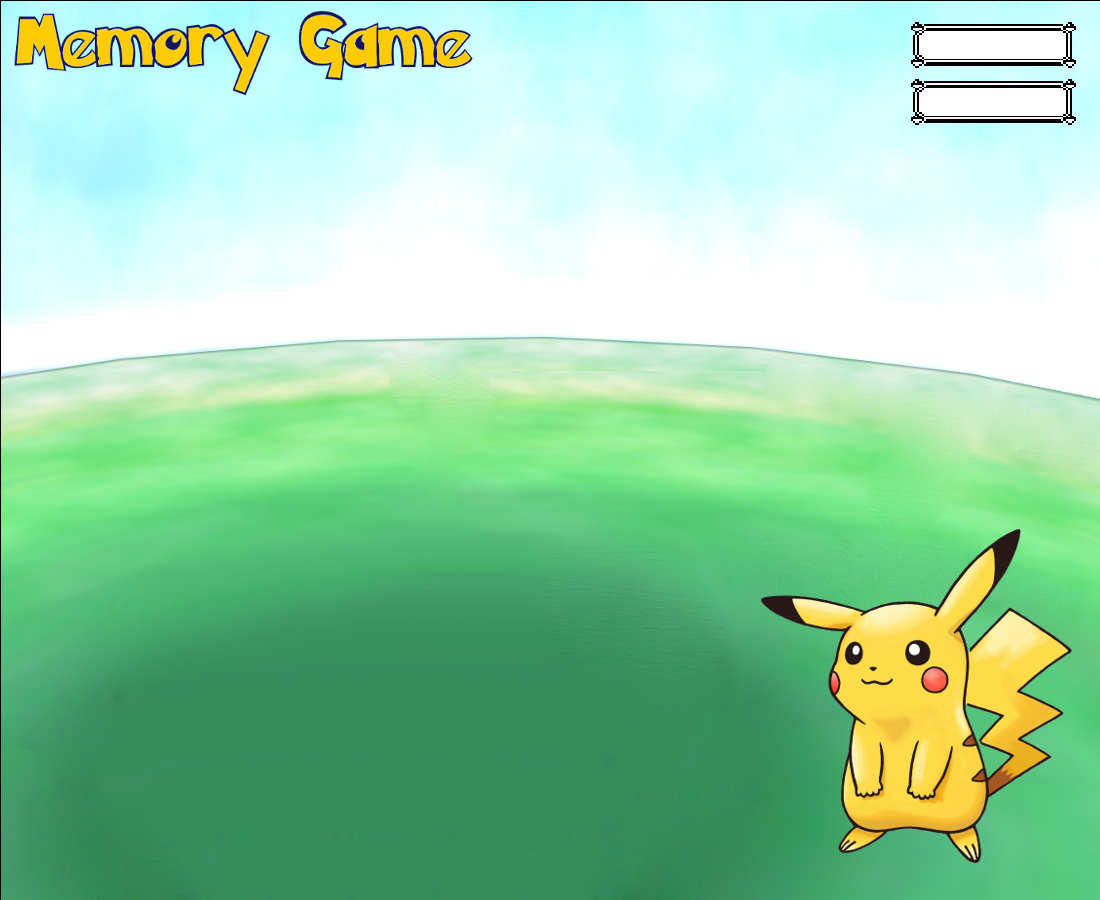
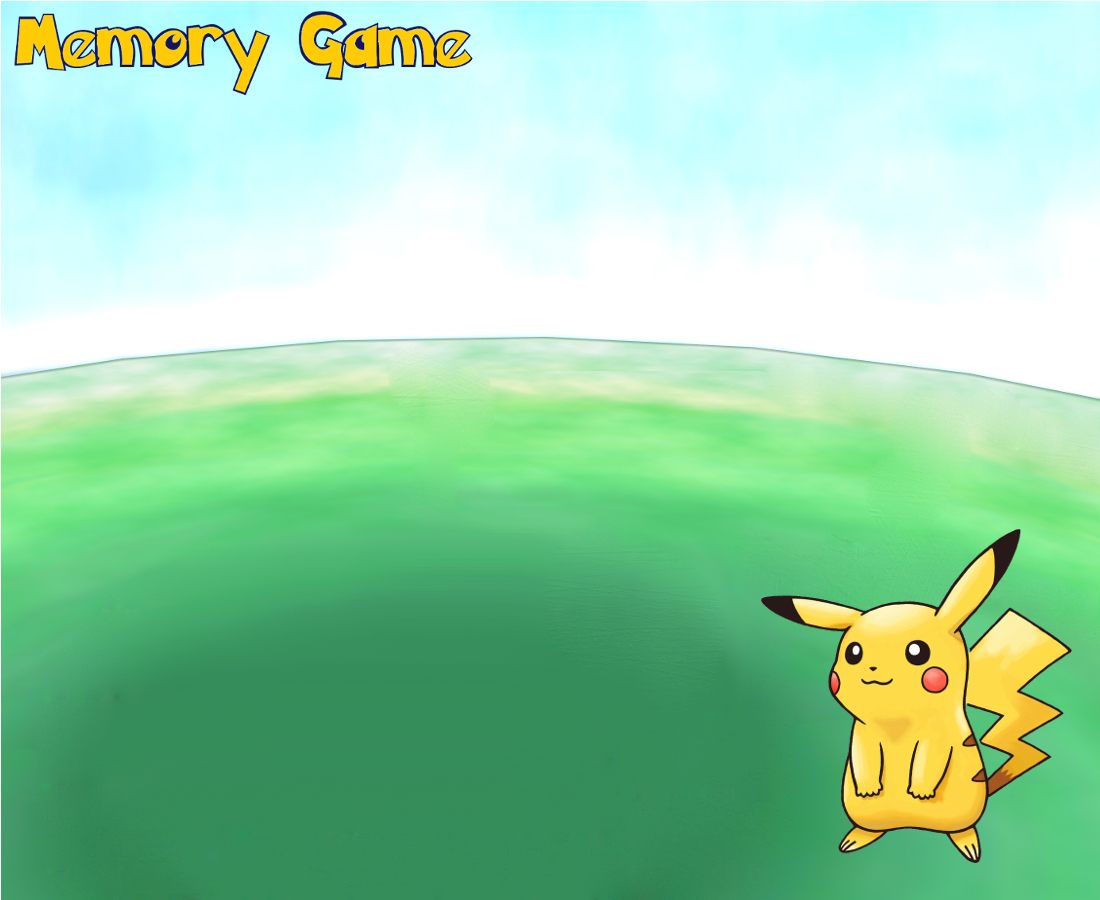
Make the labels draw their own background images

Changed region(s): [[0.8036, 0.0, 0.9891, 0.1556]]

diff --git a/src/main/java/net/csirmazbendeguz/memory_game/swing/labels/PokemonLabel.java b/src/main/java/net/csirmazbendeguz/memory_game/swing/labels/PokemonLabel.java
@@ -1,0 +1,36 @@
+package net.csirmazbendeguz.memory_game.swing.labels;
+
+import net.csirmazbendeguz.memory_game.util.ResourceLoader;
+
+import javax.swing.*;
+import javax.swing.border.EmptyBorder;
+import java.awt.*;
+import java.awt.image.BufferedImage;
+
+
+/**
+ * Base class for labels with background images.
+ */
+abstract class PokemonLabel extends JLabel {
+
+    /**
+     * The background image.
+     */
+    private BufferedImage background;
+
+    PokemonLabel(ResourceLoader resourceLoader) {
+        background = resourceLoader.loadBackogroundImage("Label-Bg.png");
+        // Add a small left padding so the label's text doesn't overlap the background image.
+        setBorder(new EmptyBorder(0, 15, 0, 0));
+    }
+
+    /**
+     * Draw the background image.
+     */
+    @Override
+    protected void paintComponent(Graphics graphics) {
+        graphics.drawImage(background, 0, 0, getWidth(), getHeight(), null);
+        super.paintComponent(graphics);
+    }
+
+}

diff --git a/src/main/java/net/csirmazbendeguz/memory_game/swing/labels/TriesLabel.java b/src/main/java/net/csirmazbendeguz/memory_game/swing/labels/TriesLabel.java
@@ -1,17 +1,18 @@
 package net.csirmazbendeguz.memory_game.swing.labels;
 
 import net.csirmazbendeguz.memory_game.game_state.TriesCounter;
+import net.csirmazbendeguz.memory_game.util.ResourceLoader;
 
 import java.awt.Color;
 import java.awt.Font;
 import java.util.Observable;
 import java.util.Observer;
-import javax.swing.JLabel;
 
-public class TriesLabel extends JLabel implements Observer {
+public class TriesLabel extends PokemonLabel implements Observer {
 
-    public TriesLabel(TriesCounter triesCounter) {
-        setBounds(950, 72, 100, 50);
+    public TriesLabel(ResourceLoader resourceLoader, TriesCounter triesCounter) {
+        super(resourceLoader);
+        setBounds(940, 72, 150, 50);
         setForeground(Color.BLACK);
         setFont(new Font("Serif", Font.PLAIN, 25));
         triesCounter.addObserver(this);

diff --git a/src/main/java/net/csirmazbendeguz/memory_game/swing/labels/TimeLabel.java b/src/main/java/net/csirmazbendeguz/memory_game/swing/labels/TimeLabel.java
@@ -1,16 +1,17 @@
 package net.csirmazbendeguz.memory_game.swing.labels;
 
 import net.csirmazbendeguz.memory_game.game_state.Stopwatch;
+import net.csirmazbendeguz.memory_game.util.ResourceLoader;
 
 import java.awt.Color;
 import java.awt.Font;
 import java.util.Observable;
 import java.util.Observer;
-import javax.swing.JLabel;
 
-public class TimeLabel extends JLabel implements Observer {
+public class TimeLabel extends PokemonLabel implements Observer {
 
-    public TimeLabel(Stopwatch stopwatch) {
+    public TimeLabel(ResourceLoader resourceLoader, Stopwatch stopwatch) {
+        super(resourceLoader);
         this.setForeground(Color.BLACK);
         this.setFont(new Font("Serif", Font.PLAIN, 25));
         this.setBounds(940, 18, 150, 50);

diff --git a/src/main/java/net/csirmazbendeguz/memory_game/swing/GameFrame.java b/src/main/java/net/csirmazbendeguz/memory_game/swing/GameFrame.java
@@ -38,8 +38,8 @@ public class GameFrame extends JFrame {
         BoardPanel boardPanel = new BoardPanel(resourceLoader, eventDispatcher);
         ChangeDimensionButton changeDimensionButton = new ChangeDimensionButton(resourceLoader, eventDispatcher, gameState);
         RestartButton restartButton = new RestartButton(resourceLoader, gameState);
-        TimeLabel timeLabel = new TimeLabel(stopwatch);
-        TriesLabel triesLabel = new TriesLabel(triesCounter);
+        TimeLabel timeLabel = new TimeLabel(resourceLoader, stopwatch);
+        TriesLabel triesLabel = new TriesLabel(resourceLoader, triesCounter);
 
         getContentPane().add(bg);
         bg.setLayout(null);
